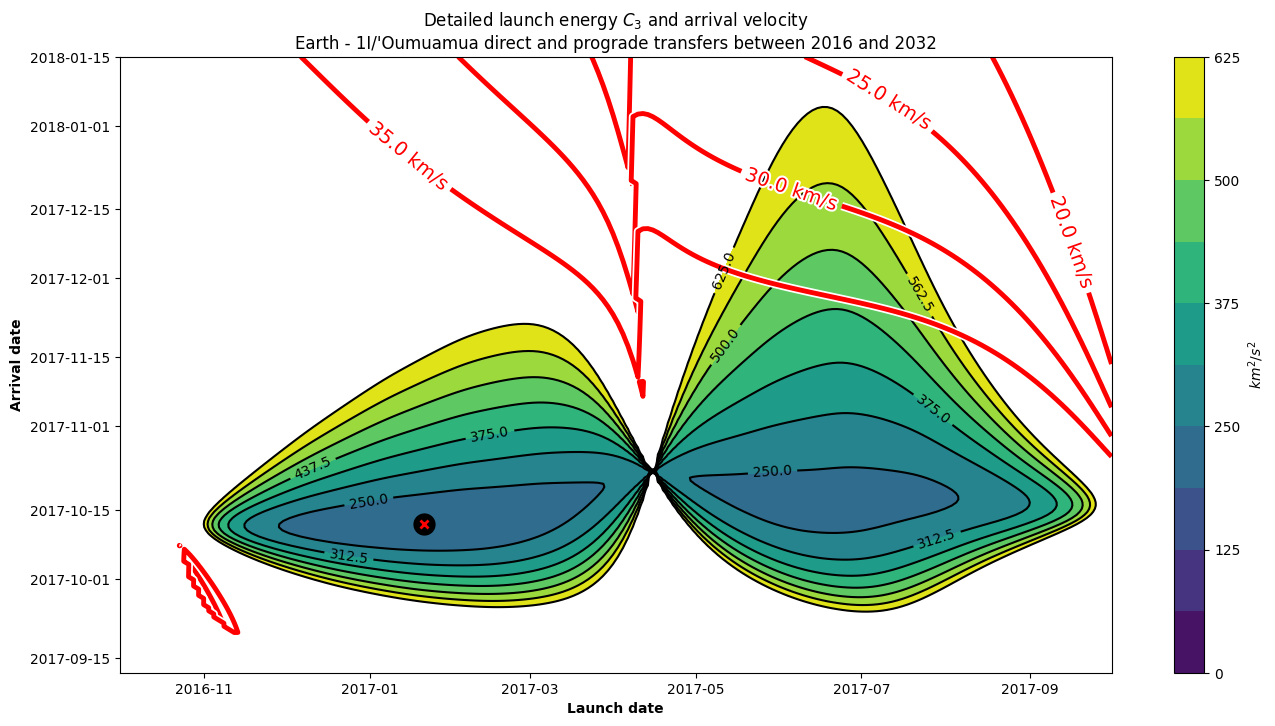
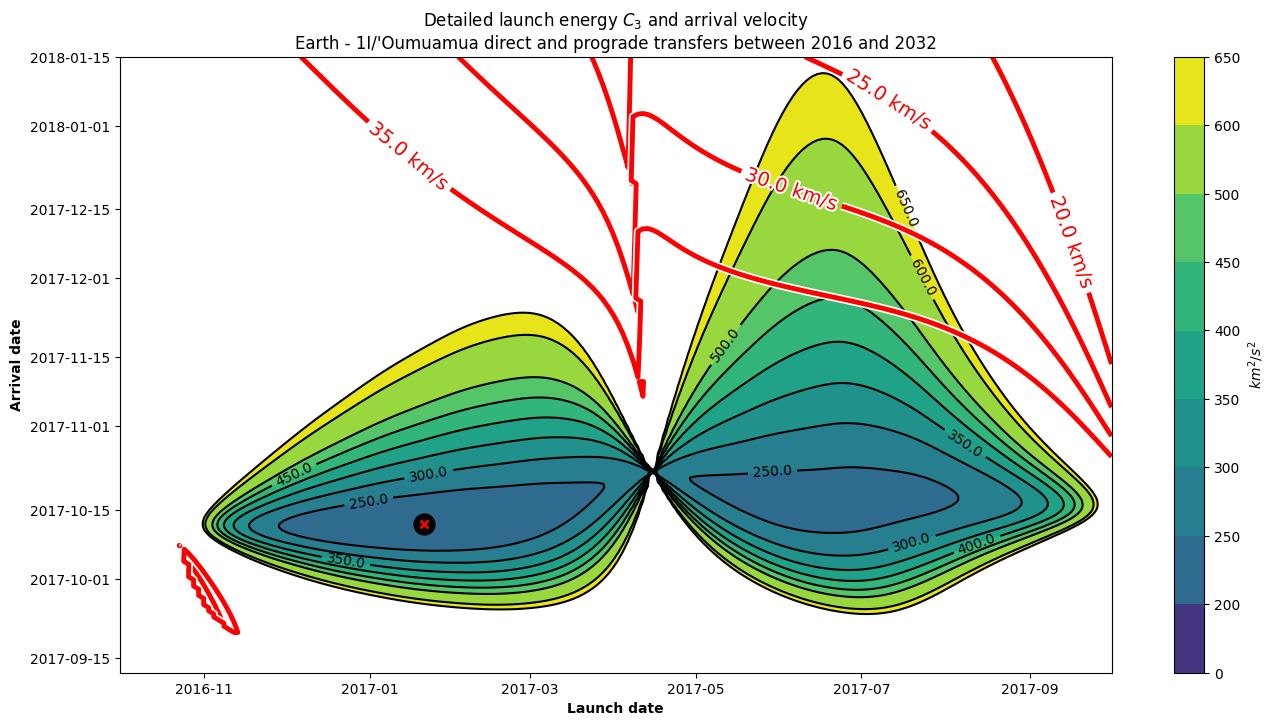
feat: complete results chapter

diff --git a/src/03_direct/optimum_transfer.tex b/src/03_direct/optimum_transfer.tex
@@ -34,9 +34,9 @@ in table \ref{tab:oumuamua-direct-transfer-optimum}.
   \includegraphics[width=\textwidth]{static/oumuamua/direct-detailed-porkchop-tof.png}
         \caption[Detailed porkchop showing the optimum transfer for
         1I/'Oumuamua with the time of flight.]{Detailed porkchop showing the optimum transfer for
-        1I/'Oumuamua. A region under 50 km$^2$/s$^2$ is found, indicating that
-        a low energy transfer is possible. The porkchop is limited up to $25$
-        km/s, which is a feasible value for nowadays technology.}
+        1I/'Oumuamua. A region close to 200 km$^2$/s$^2$ is found. Escape
+        velocity from Earth is considered too.
+  }
   \label{fig:oumuamua-optimum-porkchop}
 \end{figure}
 
@@ -50,25 +50,52 @@ in table \ref{tab:oumuamua-direct-transfer-optimum}.
   \label{fig:oumuamua-optimum-porkchop-avl}
 \end{figure}
 
+The total time of flight $\Delta t$ is 264 days. The total cost of the launch is
+$\Delta v_\text{launch} = \Delta_e + \Delta v_1 = 11.20 + 2.96 = 14.16$ km/s.
+The arrival impulse is $\Delta v_2 = 62.33$ km/s. If the rendezvous is
+considered, the total cost of the maneuver adds up to $\Delta v = 76.49$ km/s.
+All the impulses are collected in table
+\ref{tab:oumuamua-direct-transfer-impulses}.
+
+\vspace{1cm}
 \begin{table}[H]
   \centering
   \begin{tabular}{|c|c|c|c|}
     \hline
     Object & Launch date & Arrival date & Required $C_3$ [km$^2$/s$^2$] \\
     \hline
-    1I/'Oumuamua & 2017-01-20 & 2017-10-12 & 8.82 \\
+    1I/'Oumuamua & 2017-01-20 & 2017-10-12 & 200.64 \\
     \hline
   \end{tabular}
-  \caption{Optimum transfer orbit for a direct transfer between the Earth and 1I/'Oumuamua.}
+  \caption[Optimum transfer orbit for a direct transfer between the Earth and
+        1I/'Oumuamua.]{Optimum transfer orbit for a direct transfer between the
+        Earth and 1I/'Oumuamua. The energy includes the required impulse for
+        escaping the Earth and for performing a targeting maneuver.}
   \label{tab:oumuamua-direct-transfer-optimum}
 \end{table}
 
 Figures \ref{fig:optimum_oumuamua_orbit_xy},
 \ref{fig:optimum_oumuamua_orbit_yz}, and \ref{fig:optimum_oumuamua_orbit_xz}
 represent the trajectory of the optimum transfer between Earth and 1I/'Oumuamua.
-Note how the orbit lies close to the ecliptic and has a very low inclination.
-This allows to take advantage of the Earth's velocity to intercept the
-interloper, reducing the required energy for the transfer.
+Note that the transfer orbit lies close to the ecliptic and has a very low
+inclination. This allows to take advantage of the Earth's velocity to intercept
+the interloper, reducing the required energy for the transfer.
+
+\vspace{1cm}
+\begin{table}[H]
+  \centering
+  \begin{tabular}{|c|c|c|c|}
+    \hline
+    Impulse & $\Delta v_x$ [km/s] & $\Delta v_y$ [km/s] & $\Delta v_z$ [km/s] \\
+    \hline
+    Launch & 1.02 & -1.22 & 2.49 \\
+    \hline
+    Arrival & 58.97 & -14.18 & 14.37 \\
+    \hline
+  \end{tabular}
+  \caption{Impulses required for the optimum transfer between Earth and 1I/'Oumuamua.}
+  \label{tab:oumuamua-direct-transfer-impulses}
+\end{table}
 
 \begin{figure}[H]
   \centering
@@ -101,31 +128,6 @@ interloper, reducing the required energy for the transfer.
   \label{fig:optimum_oumuamua_orbit_xz}
 \end{figure}
 
-However, a look to figure \ref{fig:oumuamua-optimum-porkchop-avl} reveals that
-the arrival velocity is very high. Even if a targeting with 'Oumuamua was
-attempted, the observation time would be very short. This is also evidenced by
-the impulses required for the maneuver, which are collected in table
-\ref{tab:oumuamua-direct-transfer-impulses}.
-
-\begin{table}[H]
-  \centering
-  \begin{tabular}{|c|c|c|c|}
-    \hline
-    Impulse & $\Delta v_x$ [km/s] & $\Delta v_y$ [km/s] & $\Delta v_z$ [km/s] \\
-    \hline
-    Launch & 0.98 & -1.16 & 2.54 \\
-    \hline
-    Arrival & 59.10 & -14.22 & 14.33 \\
-    \hline
-  \end{tabular}
-  \caption{Impulses required for the optimum transfer between Earth and 1I/'Oumuamua.}
-  \label{tab:oumuamua-direct-transfer-impulses}
-\end{table}
-
-The total time of flight is 265 days. The cost for the launch is around $2.96$
-km/s, while the arrival impulse is $62.45$ km/s. The total cost for the transfer
-is $65.41$ km/s.
-
 \subsection{Borisov}
 
 Regarding Borisov, the most optimum transfer is also a prograde transfer. The
@@ -135,25 +137,6 @@ lowest characteristic energy is shown in figure
 \ref{fig:borisov-optimum-transfer-porkchop-tof}. The analysis is expanded again
 to the arrival velocity, which is shown in figure
 \ref{fig:borisov-optimum-transfer-porkchop-avl}.
-
-The values associated with the point with the lowest characteristic energy for
-2I/Borisov are collected in table \ref{tab:borisov-direct-transfer-optimum}.
-
-\begin{table}[H]
-  \centering
-  \begin{tabular}{|c|c|c|c|}
-    \hline
-    Object & Launch date & Arrival date & Required $C_3$ [km$^2$/s$^2$] \\
-    \hline
-    2I/Borisov & 2018-07-12 & 2019-10-26 & 283.74 \\
-    \hline
-  \end{tabular}
-  \caption[Optimum orbit for a direct transfer between the Earth and
-    2I/Borisov.]{Optimum orbit for a direct transfer between the Earth and
-    2I/Borisov. The enegy includes the required impulse for escaping the Earth
-    and for performing a targeting maneuver.}
-  \label{tab:borisov-direct-transfer-optimum}
-\end{table}
 
 \begin{figure}[H]
   \centering
@@ -176,6 +159,26 @@ The values associated with the point with the lowest characteristic energy for
   \label{fig:borisov-optimum-transfer-porkchop-avl}
 \end{figure}
 
+The values associated with the point with the lowest characteristic energy for
+2I/Borisov are collected in table \ref{tab:borisov-direct-transfer-optimum}.
+
+\vspace{1cm}
+\begin{table}[H]
+  \centering
+  \begin{tabular}{|c|c|c|c|}
+    \hline
+    Object & Launch date & Arrival date & Required $C_3$ [km$^2$/s$^2$] \\
+    \hline
+    2I/Borisov & 2018-07-12 & 2019-10-26 & 283.74 \\
+    \hline
+  \end{tabular}
+  \caption[Optimum orbit for a direct transfer between the Earth and
+    2I/Borisov.]{Optimum orbit for a direct transfer between the Earth and
+    2I/Borisov. The enegy includes the required impulse for escaping the Earth
+    and for performing a targeting maneuver.}
+  \label{tab:borisov-direct-transfer-optimum}
+\end{table}
+
 The total time of flight $\Delta t$ is 470 days. The total cost of the launch is
 $\Delta v_\text{launch} = \Delta_e + \Delta v_1 = 11.20 + 5.64 = 16.86$ km/s.
 The arrival impulse is $\Delta v_2 = 33.00$ km/s. If the rendezvous is
@@ -183,6 +186,12 @@ considered, the total cost of the maneuver adds up to $\Delta v = 49.86$ km/s.
 All the impulses are collected in table
 \ref{tab:borisov-direct-transfer-impulses}.
 
+Figures \ref{fig:optimum_borisov_orbit_xy}, \ref{fig:optimum_borisov_orbit_yz},
+and \ref{fig:optimum_borisov_orbit_xz} represent the trajectory of the optimum
+transfer from Earth to 2I/Borisov. Again, the transfer does not present a high
+inclination, which allows the spacecraft to benefit from Earth's velocity.
+
+\vspace{1cm}
 \begin{table}[H]
   \centering
   \begin{tabular}{|c|c|c|c|}
@@ -200,11 +209,6 @@ All the impulses are collected in table
         reached its escape velocity.}
   \label{tab:borisov-direct-transfer-impulses}
 \end{table}
-
-Figures \ref{fig:optimum_borisov_orbit_xy}, \ref{fig:optimum_borisov_orbit_yz},
-and \ref{fig:optimum_borisov_orbit_xz} represent the trajectory of the optimum
-transfer from Earth to 2I/Borisov. Again, the transfer does not present a high
-inclination, which allows the spacecraft to benefit from Earth's velocity.
 
 \begin{figure}[H]
   \centering
@@ -237,5 +241,3 @@ inclination, which allows the spacecraft to benefit from Earth's velocity.
     This view shows again the low inclination of the transfer orbit.}
   \label{fig:optimum_borisov_orbit_xz}
 \end{figure}
-
-

diff --git a/src/03_direct/results.tex b/src/03_direct/results.tex
@@ -1,23 +1,26 @@
 \section{Results}
 
 Results obtained in tables \ref{tab:oumuamua-direct-transfer-impulses} and
-\ref{tab:borisov-direct-transfer-impulses} show that the direct transfers require
-small launch impulses but present large arrival velocities.
+\ref{tab:borisov-direct-transfer-impulses} show that the direct transfers
+require small launch impulses, once the escape velocity of Earth is overcome.
+However, they present large arrival velocities. This limits the amount of
+observation time when performing a targeting with the ISOs.
 
 Paying attention to figures \ref{fig:optimum_oumuamua_orbit_xz} and
-\ref{fig:optimum_borisov_orbit_xz}, it can be identified that the transfer orbits
-with the lowest launch energies reach the target when this is near the ecliptic.
+\ref{fig:optimum_borisov_orbit_xz}, it can be identified that the transfer
+orbits with the lowest launch energies reach the target when this is near the
+ecliptic.
 
 Bibliography proofs that the optimum direct transfer for borisov was already
 computed by \cite{hibberd2021}. However, the optimum direct transfer for
-'Oumuamua computed in this work could expand the work from \cite{hein2018}.
+'Oumuamua computed in this work could expand the research from \cite{hein2018}.
 
-Nevertheless, these transfers do not consider perturbation effects like:
+Notat that this analysis does not consider perturbation effects like:
 
 \begin{itemize}
+  \item Atmospheric drag at launch
   \item Solar radiation pressure
   \item Gravitational perturbations
-  \item Escape velocity
   \item Spheres of influence (SOIs)
 \end{itemize}
 

diff --git a/bin/oumuamua_porkchop_optimum.py b/bin/oumuamua_porkchop_optimum.py
@@ -43,7 +43,7 @@ def main():
     # Get launch energy and time of flight
     _, ax = plt.subplots(1, 1, figsize=(16, 8))
     porkchop.plot_launch_energy(
-        levels=np.linspace(0, 25**2, 11) * u.km ** 2 / u.s ** 2,
+        levels=[0, 200, 250, 300, 350, 400, 450, 500, 600, 650] * u.km ** 2 / u.s ** 2,
         plot_contour_lines=True,
         ax=ax,
     )
@@ -68,7 +68,7 @@ def main():
     # Get launch energy and arrival velocity
     _, ax = plt.subplots(1, 1, figsize=(16, 8))
     porkchop.plot_launch_energy(
-        levels=np.linspace(0, 25**2, 11) * u.km ** 2 / u.s ** 2,
+        levels=[0, 200, 250, 300, 350, 400, 450, 500, 600, 650] * u.km ** 2 / u.s ** 2,
         plot_contour_lines=True,
         ax=ax,
     )
@@ -104,11 +104,11 @@ def main():
 
     # Compute the transfer maneuver
     lambert = Maneuver.lambert(earth, oumuamua)
-    print(f"Total cost: {lambert.get_total_cost()}")
-    print(f"Total time: {lambert.get_total_time().to(u.day)}")
+    print(f"Total cost: {lambert.get_total_cost():.2f}")
+    print(f"Total time: {lambert.get_total_time().to(u.day):.2f}")
     for _, dv in lambert.impulses:
         print(f"Impulses: {dv.to(u.km / u.s)}")
-        print(f"Cost: {(sum(impulse ** 2 for impulse in dv) ** 0.5).to(u.km/u.s)}")
+        print(f"Cost: {(sum(impulse ** 2 for impulse in dv) ** 0.5).to(u.km/u.s):.2f}")
     transfer, _ = earth.apply_maneuver(lambert, intermediate=True)
 
     # Model the transfer orbit as an ephem
